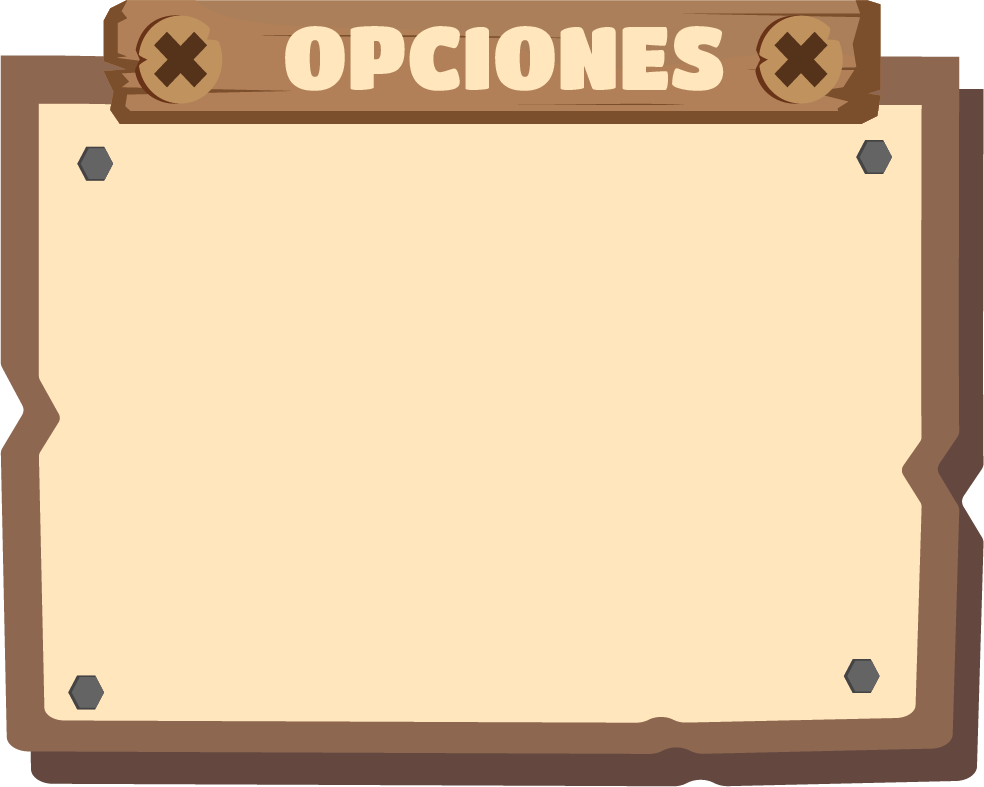
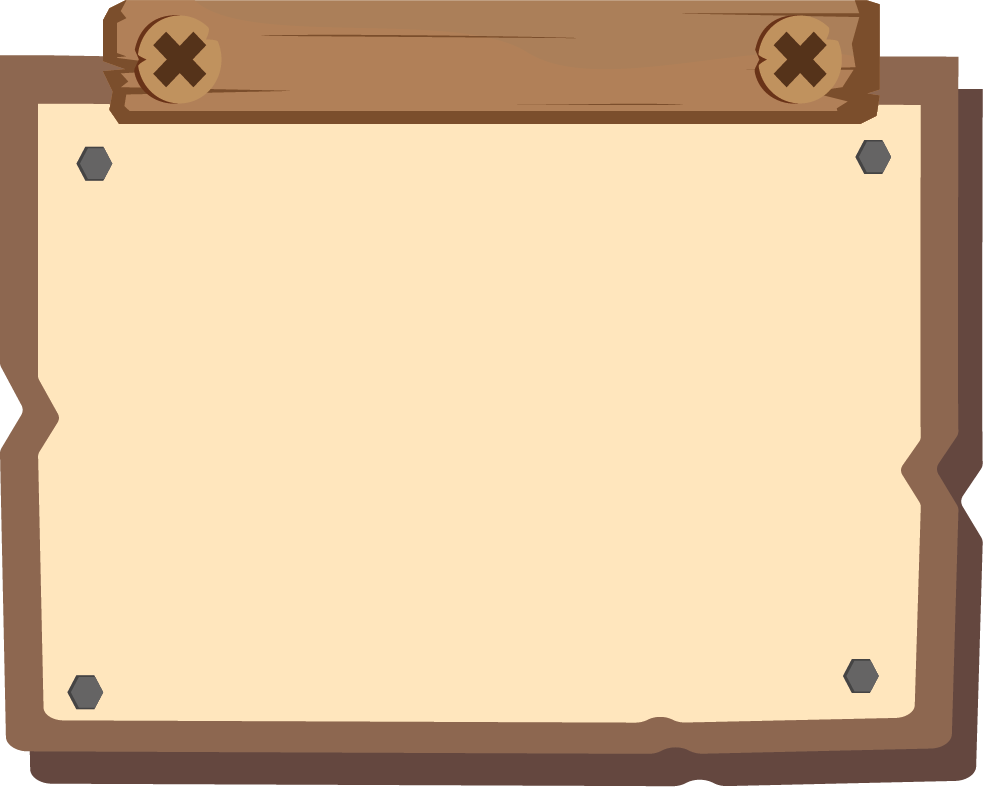
Remplazo de imagenes con texto, adicion de los textos en los archivos de idioma, remplazo de las animaciones de victoria y derrota en batallas

Changed region(s): [[0.2747, 0.0305, 0.7325, 0.122]]

diff --git a/src/Helpers/Helpers.js b/src/Helpers/Helpers.js
@@ -370,7 +370,8 @@ export class InfoCard{
         this.cardResult = scene.add.container(x, y).setScrollFactor(0)
         this.numBurrito = burrito.name.split("#", 2);
 
-        this.cardResult.add(scene.add.text(-100, -235, "Burrito #"+this.numBurrito[1]+"\nTipo: "+burrito.burrito_type+"\nNivel: "+burrito.level+"\nVictorias: "+burrito.win+" \nVidas: "+burrito.hp+"\nFuerza: "+burrito.attack+"\nDefensa: "+burrito.defense+"\nVelocidad: "+burrito.speed, { fontSize: 45, fontFamily: "BangersRegular", color: 'white' }));
+        console.log(burrito);
+        this.cardResult.add(scene.add.text(-100, -235, "Burrito #" + this.numBurrito[1] + "\n" + Translate.Translate("Type") + Translate.Translate(burrito.burrito_type) + "\n" + Translate.Translate("Level") + burrito.level+ "\n" + Translate.Translate("Wins") + burrito.win + "\n" + Translate.Translate("Lifes") + burrito.hp + "\n" + Translate.Translate("Strength") + burrito.attack + "\n" + Translate.Translate("Defense") + burrito.defense + "\n" + Translate.Translate("Speed") + burrito.speed, { fontSize: 45, fontFamily: "BangersRegular", color: 'white' }));
 
     }
     
@@ -387,8 +388,6 @@ export class InfoCard{
         return this.cardResult;
     }
 }
-
-
 export class BurritoHud{
     BurritoHud;
     constructor(x, y, burrito, scene){
@@ -434,7 +433,6 @@ export class BurritoHud{
         this.burrito.setAlpha(alpha)
     }
 }
-
 export class TokenHud{
     TokenHud;
     constructor(x, y, scene, currentNEAR, currentSTRW){
@@ -470,20 +468,35 @@ export class BattleEnd{
         this.resultUI.add(this.backgroundAnimation = scene.add.sprite(0, 0));
         this.backgroundAnimation.play("backgroundAnim");
 
-        scene.anims.create({ key: "finishAnim", frames: scene.anims.generateFrameNumbers( isVictoria ? "victoria" : "derrota", { frames: scene.Range(0, 18)}), frameRate: 24, repeat: 0 });
-        this.resultUI.add(this.animation = scene.add.sprite(0, 0));
-        this.animation.play("finishAnim");
-        setTimeout(() => {
-            if(!isIncursion){
+        if(!isIncursion){
+            scene.anims.create({ key: "finishAnim", frames: scene.anims.generateFrameNumbers( isVictoria ? "victoria" : "derrota", { frames: scene.Range(0, 18)}), frameRate: 24, repeat: 0 });
+            this.resultUI.add(this.animation = scene.add.sprite(0, 0));
+            this.animation.play("finishAnim");
+
+            setTimeout(() => {
                 this.resultUI.add(scene.add.text(245, 390, `+${STRWTokens}`, {fontSize:40, fontFamily:"BangersRegular"}).setOrigin(0.5));
                 this.resultUI.add(scene.add.text(-255, 390, isVictoria ? "+1" : "-1", {fontSize:40, fontFamily:"BangersRegular"}).setOrigin(0.5));
-            }
-            this.resultUI.add(this.burrito = scene.add.sprite(0, 30).setScale(0.75));
-            this.burrito.play(isVictoria ? "victoria_Player" : "derrota_Player");
-        }, 1000);
+                this.resultUI.add(scene.add.text(10, -305, isVictoria ? Translate.Translate("MsgVictory") : Translate.Translate("MsgDefeat"), {fontSize: 100, fontFamily:"BangersRegular", stroke: 0x000000, strokeThickness: 5, align: "center"}).setOrigin(0.5));
+            
+                this.resultUI.add(this.burrito = scene.add.sprite(0, 30).setScale(0.75));
+                this.burrito.play(isVictoria ? "victoria_Player" : "derrota_Player");
+            }, 1000);
+        }else{
+            scene.anims.create({ key: "finishAnim", frames: scene.anims.generateFrameNumbers( isVictoria ? "victoria_incursion" : "derrota_incursion", { frames: scene.Range(0, 18)}), frameRate: 24, repeat: 0 });
+            this.resultUI.add(this.animation = scene.add.sprite(0, 0));
+            this.animation.play("finishAnim");
+
+            setTimeout(() => {
+                this.resultUI.add(scene.add.text(10, -305, isVictoria ? Translate.Translate("MsgVictory") : Translate.Translate("MsgDefeat"), {fontSize: 100, fontFamily:"BangersRegular", stroke: 0x000000, strokeThickness: 5, align: "center"}).setOrigin(0.5));
+                this.resultUI.add(this.burrito = scene.add.sprite(0, 30).setScale(0.75));
+                if(isVictoria){
+                    this.burrito.play("victoria_Player");
+                }
+            }, 1000);
+        }
+        
     }
 }
-
 export class Alert{
     static isAlert = false;
     static Fire(scene, x, y, title, description, acceptBtn = Translate.Translate("BtnAccept"), cancelBtn = null){
@@ -537,7 +550,6 @@ export class Alert{
         return typeof obj !== "undefined";
     }
 }
-
 export class Incursion{
     constructor(x, y, scene, scale){
         this.x = x;
@@ -547,7 +559,6 @@ export class Incursion{
         this.incursionResult = scene.add.container(x, y).setScrollFactor(0).setScale(this.scale);
     }
 }
-
 export class SettingsButton{
     static GetVolume = () => {
         return localStorage.getItem("volume", 0.5);
@@ -590,6 +601,7 @@ export class SettingsButton{
         this.configContainer = this.scene.add.container(this.scene.game.config.width / 2, this.scene.game.config.height/2);
         this.configContainer.add(this.scene.add.image(0, 0, "options"));
         
+        this.configContainer.add(this.scene.add.text(0, -335, Translate.Translate("Settings"), { fontSize:72, fontFamily: "BangersRegular", stroke: 0x000000, strokeThickness: 5, align: "center"}).setOrigin(0.5));
         this.configContainer.add(this.scene.add.text(0, -150, Translate.Translate("Language"), { fontSize:60 , fontFamily: "BangersRegular", stroke: 0x000000, strokeThickness: 5, align: "center"}).setOrigin(0.5));
         this.configContainer.add(this.engImg = this.scene.add.sprite(200, -50, "languages", localStorage.getItem("language") === "es" ? 0 : 1).setInteractive(this.scene.input.makePixelPerfect()).on("pointerdown", this.SetEng).setScale(0.2));
         this.configContainer.add(this.espImg = this.scene.add.sprite(-200, -50, "languages",  localStorage.getItem("language") === "es" ? 3 : 2).setInteractive(this.scene.input.makePixelPerfect()).on("pointerdown", this.SetEsp).setScale(0.2));

diff --git a/Scenes/MinarBurrito.js b/Scenes/MinarBurrito.js
@@ -75,16 +75,17 @@ export class MinarBurrito extends Phaser.Scene{
         localStorage.removeItem("prevScene");
         new Helpers.Button(this.sys.game.scale.gameSize.width / 2 + 750,  100, 0.5, "buttonContainer2", this.isPrevScene ? Translate.Translate("BtnBackToMeadow") : Translate.Translate("BtnMainMenu"), this, this.BackToMainMenu, null, {fontSize: 30, fontFamily: "BangersRegular"});
         this.hudTokens = new Helpers.TokenHud(200, 200, this, await Near.GetCurrentNears(), await Near.GetSTRWToken());
-        this.button = new Helpers.Button(this.sys.game.scale.gameSize.width / 2 + 300, this.sys.game.scale.gameSize.height - 75, 0.75, "buttonContainer2", Translate.Translate("BtnMintBurrito"), this, this.ConfirmMint, null, {fontSize: 38, fontFamily: "BangersRegular"})
-        this.button = new Helpers.Button(this.sys.game.scale.gameSize.width / 2 - 300, this.sys.game.scale.gameSize.height - 75, 0.75, "buttonContainer2", Translate.Translate("BtnGoBarn"), this, this.GoToEstablo, null, {fontSize: 40, fontFamily: "BangersRegular"})
+        this.button = new Helpers.Button(this.sys.game.scale.gameSize.width / 2 + 300, this.sys.game.scale.gameSize.height - 75, 0.75, "buttonContainer2", Translate.Translate("BtnMintBurrito"), this, this.ConfirmMint, null, {fontSize: 38, fontFamily: "BangersRegular"});
+        this.button = new Helpers.Button(this.sys.game.scale.gameSize.width / 2 - 300, this.sys.game.scale.gameSize.height - 75, 0.75, "buttonContainer2", Translate.Translate("BtnGoBarn"), this, this.GoToEstablo, null, {fontSize: 40, fontFamily: "BangersRegular"});
         
         let remainToBuy = await Near.CanBuyTokens();
         await this.loadingScreen.OnComplete();
 
         if(remainToBuy == 0){
             this.add.sprite(180, this.sys.game.scale.gameSize.height + 2300, "burrito").setOrigin(0);
-            this.tienda = this.add.sprite(50, this.sys.game.scale.gameSize.height + 2270, "tienda1").setOrigin(0);
+            this.tienda = this.add.sprite(50, this.sys.game.scale.gameSize.height + 2270, "tienda2").setOrigin(0);
             this.comprarBtn = new Helpers.Button(360,  this.sys.game.scale.gameSize.height + 2350, 0.25, "buttonContainer2", Translate.Translate("BtnBuyStrw"), this, this.BuyTokens, null, {fontSize: 20, fontFamily: "BangersRegular"}, false)
+            this.add.text(257, this.sys.game.scale.gameSize.height + 2554, Translate.Translate("SignBuyStrw"), {fontSize: 20 , fontFamily: "BangersRegular", stroke: 0x000000, strokeThickness: 5, align: "center"}).setOrigin(0.5);
         } else {
             this.counterInterval = setInterval(() => {this.Contdown(remainToBuy) }, 1000);
             this.tienda = this.add.sprite(50, this.sys.game.scale.gameSize.height + 2270, "tienda2").setOrigin(0);

diff --git a/Scenes/ColiseoScene.js b/Scenes/ColiseoScene.js
@@ -168,6 +168,8 @@ export class Coliseo extends Phaser.Scene{
         this.totalTokens = await Near.NFTSupplyForOwner();
         this.panelContainer = this.add.container(this.game.config.width / 2, this.game.config.height / 2).setScale(0.75);
         this.panelContainer.add(this.add.image(0, 0, "seleccion_panel"));
+        this.panelContainer.add(this.add.text(28, 496, Translate.Translate("SingBurritos"), {fontSize: 60, fontFamily: "BangersRegular", stroke: 0x000000, strokeThickness: 5, align: "center"}).setOrigin(0.5));
+        this.panelContainer.add(this.add.text(0, -430, Translate.Translate("SingIncursion"), {fontSize: 120, fontFamily: "BangersRegular", stroke: 0x000000, strokeThickness: 5, align: "center"}).setOrigin(0.5));
         this.panelContainer.add(new Helpers.Button(- 500, 85, 1, "left_arrow", null, this, ()=>{ this.Navigate(-1); }, null, null).GetComponents());
         this.panelContainer.add(new Helpers.Button(500, 85, 1, "right_arrow", null, this, ()=>{ this.Navigate(1); }, null, null).GetComponents());
         this.panelContainer.add(new Helpers.Button(600, -500, 0.25, "cerrar", null, this, ()=>{this.panelContainer.destroy(); this.CreatePanelIncursion();}).GetComponents());
@@ -270,7 +272,9 @@ export class Coliseo extends Phaser.Scene{
         mega.hp = mega.win /*= mega.attack = mega.defense = mega.level = mega.speed*/ = "?";
         mega.cards = "mega_cards"
         let incursionContainer = this.add.container(this.game.config.width / 2, this.game.config.height / 2 ).setScale(0.75);
-        incursionContainer.add(this.add.image(0, 0, "informacion_incursion"));
+        this.incursionContainer.add(this.add.image(0, 0, "informacion_incursion"));
+        this.incursionContainer.add(this.add.text(22, 494, Translate.Translate("SingPlayer"), {fontSize: 50, fontFamily: "BangersRegular", stroke: 0x000000, strokeThickness: 5, align: "center"}).setOrigin(0.5));
+        this.incursionContainer.add(this.add.text(0, -430, Translate.Translate("SingIncursion"), {fontSize: 120, fontFamily: "BangersRegular", stroke: 0x000000, strokeThickness: 5, align: "center"}).setOrigin(0.5));
         incursionContainer.add(new Helpers.Card(- 280, - 100, mega, this, false, false, false, false).setScale(.45).GetComponents());
         incursionContainer.add(this.countDownInfoText = this.add.text(200, -200, Translate.Translate("MsgFinishIncursion0"), {fontSize: 45, fontFamily: "BangersRegular", align: "center"}).setOrigin(0.5));
         incursionContainer.add(new Helpers.BossSlider(175, 70, this).SetValue(mega.health / mega.start_health).SetScale(0.6).GetComponent());

diff --git a/Scenes/MainMenuScene.js b/Scenes/MainMenuScene.js
@@ -29,10 +29,6 @@ export class MainMenu extends Phaser.Scene{
         this.load.audio("acoustic-motivation", "./src/audio/acoustic-motivation.ogg"); 
         this.load.audio("button-hover", "./src/audio/button-hover.ogg");
         this.load.audio("button-click", "./src/audio/button-click.ogg");
-
-        this.load.spritesheet("derrota", "../src/images/Battle/Derrota.webp", { frameWidth: 1920, frameHeight: 1080 });
-        this.load.spritesheet("victoria", "../src/images/Battle/Victoria.webp", { frameWidth: 1920, frameHeight: 1080 });
-        this.load.spritesheet("background_animation", "../src/images/Battle/Background.webp", { frameWidth: 1920, frameHeight: 1080 }); 
     }
     
     Range = (start, end) => Array(end - start + 1).fill().map((_, idx) => start + idx);
